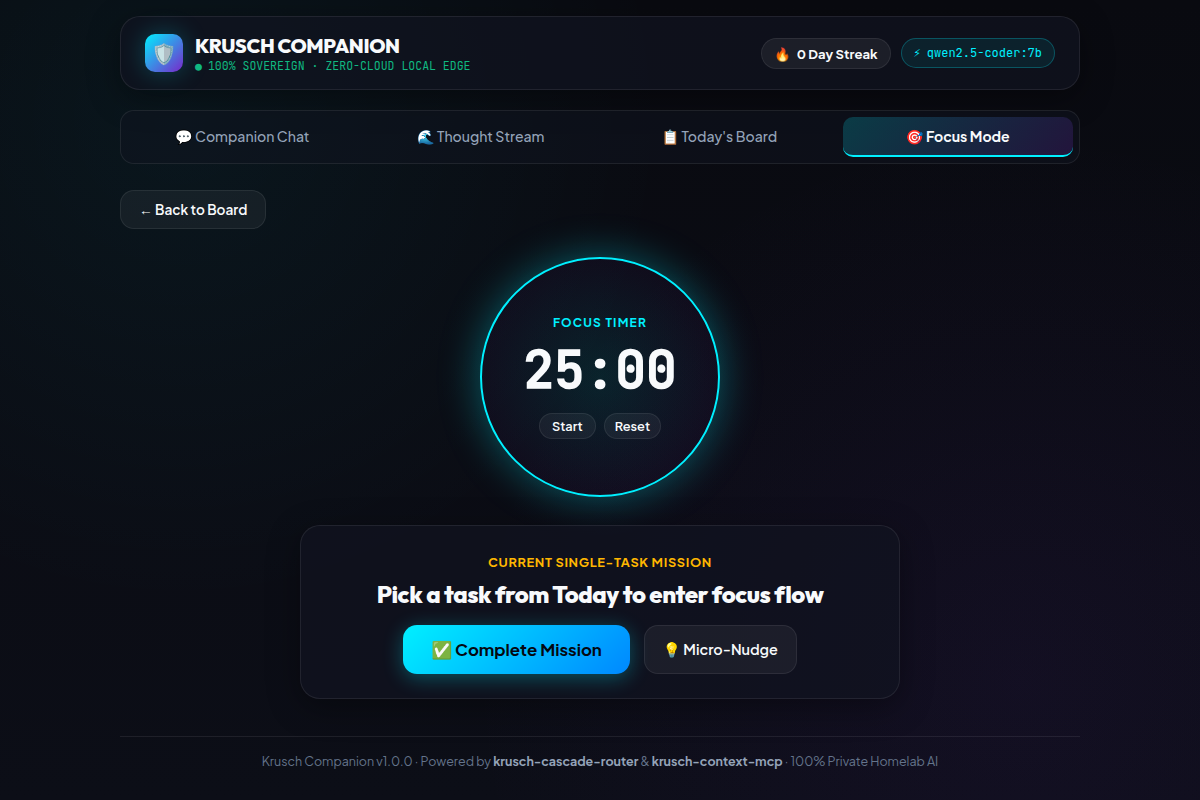
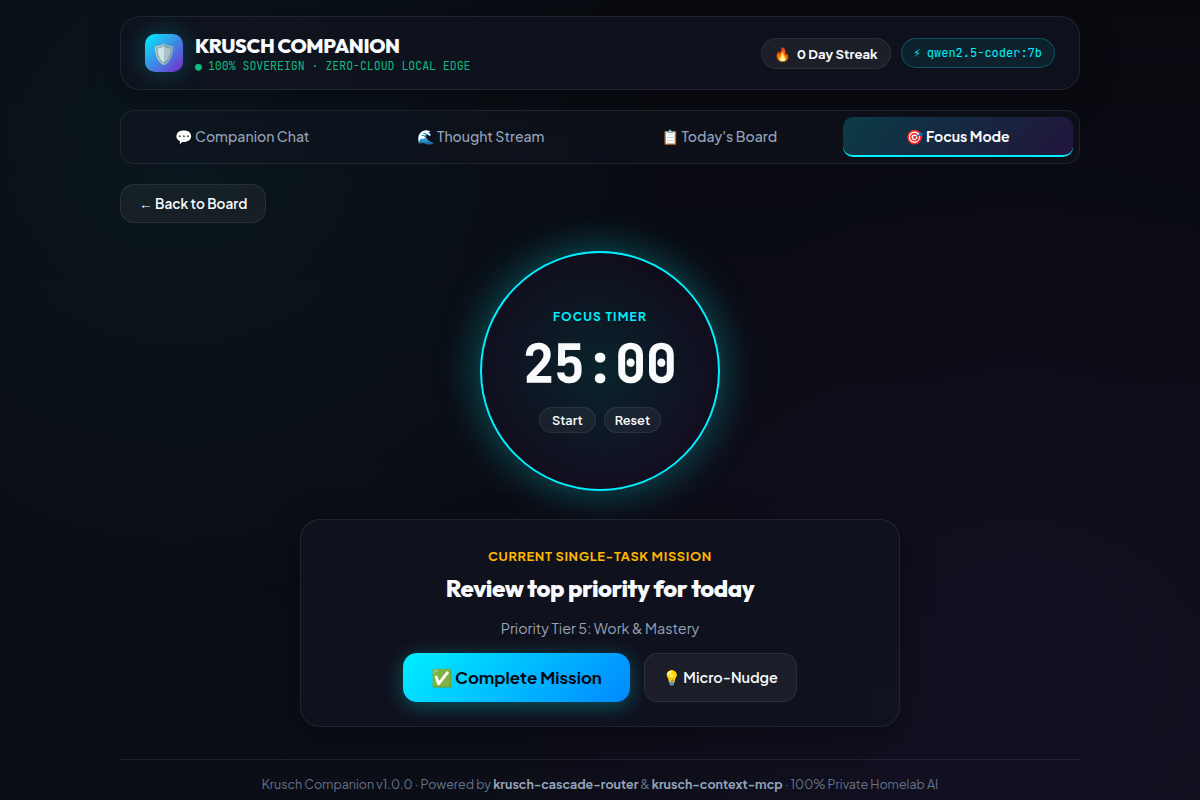
fix(ui): ensure Thought Stream branding is consistent across all views and update screenshots

diff --git a/scripts/capture_screenshots.js b/scripts/capture_screenshots.js
@@ -2,6 +2,7 @@ import { spawn } from 'child_process';
 import { execSync } from 'child_process';
 import { fileURLToPath } from 'url';
 import path from 'path';
+import fs from 'fs';
 
 const __filename = fileURLToPath(import.meta.url);
 const __dirname = path.dirname(__filename);
@@ -28,10 +29,12 @@ try {
   for (const v of views) {
     const outPath = path.join(projectRoot, v.file);
     const url = `http://localhost:3004/?tab=${v.tab}`;
+    const tmpProfile = path.join('/tmp', `chrome-profile-${Date.now()}`);
     console.log(`Capturing ${v.tab} -> ${v.file}...`);
-    execSync(`google-chrome --headless --disable-gpu --no-sandbox --hide-scrollbars --window-size=1200,800 --virtual-time-budget=2000 --screenshot="${outPath}" "${url}"`, {
+    execSync(`google-chrome --headless --disable-gpu --no-sandbox --hide-scrollbars --incognito --user-data-dir="${tmpProfile}" --window-size=1200,800 --virtual-time-budget=3000 --screenshot="${outPath}" "${url}"`, {
       stdio: 'inherit'
     });
+    try { fs.rmSync(tmpProfile, { recursive: true, force: true }); } catch {}
   }
   console.log('✅ All screenshots captured successfully.');
 } catch (err) {

diff --git a/client/src/components/AudioRecorder.jsx b/client/src/components/AudioRecorder.jsx
@@ -118,7 +118,7 @@ export function AudioRecorder({ onAudioReady, isProcessing }) {
         className={`btn-mic ${isRecording ? 'recording' : ''}`}
         onClick={isRecording ? stopRecording : startRecording}
         disabled={isProcessing}
-        title={isRecording ? 'Click to stop & analyze' : 'Click to start voice dump'}
+        title={isRecording ? 'Click to stop & analyze' : 'Click to speak your thoughts'}
       >
         {isRecording ? '⏹' : '🎙'}
       </button>
@@ -143,10 +143,10 @@ export function AudioRecorder({ onAudioReady, isProcessing }) {
 
       <p style={{ color: 'var(--text-muted)', fontSize: '0.88rem' }}>
         {isRecording
-          ? 'Listening... Talk freely. Unload everything on your mind.'
+          ? 'Listening... Talk freely. Speak whatever is on your mind.'
           : isProcessing
-          ? 'Processing with local Cascade Router...'
-          : 'Tap the mic to start an ADHD Chaos Dump'}
+          ? 'Processing with Cascade Router...'
+          : 'Tap the mic to speak your Thought Stream'}
       </p>
     </div>
   );

diff --git a/src/router/cascade-client.js b/src/router/cascade-client.js
@@ -219,7 +219,7 @@ export function classifyCompanionPrompt(prompt) {
 /**
  * Call local Ollama chat endpoint with hardened timeout and circuit breaking.
  */
-async function callOllama({ prompt, history = [], systemPrompt = '', model = null, timeoutMs = 12000 }) {
+async function callOllama({ prompt, history = [], systemPrompt = '', model = null, timeoutMs = 25000 }) {
   const ollamaUrl = config.cascade.ollamaUrl;
   const targetModel = model || config.cascade.edgeModel;
 
@@ -435,7 +435,7 @@ All personal data is private and sovereign. When referencing personal context, b
       history,
       systemPrompt: fullSystemPrompt,
       model: config.cascade.edgeModel,
-      timeoutMs: 12000
+      timeoutMs: 25000
     });
 
     return {
@@ -453,7 +453,7 @@ All personal data is private and sovereign. When referencing personal context, b
           history,
           systemPrompt: fullSystemPrompt,
           model: 'hermes3:latest',
-          timeoutMs: 12000
+          timeoutMs: 25000
         });
         return {
           content: fallbackContent,

diff --git a/client/src/App.jsx b/client/src/App.jsx
@@ -18,7 +18,11 @@ export function App() {
     return 'companion';
   });
   const [streak, setStreak] = useState(0);
-  const [focusTask, setFocusTask] = useState(null);
+  const [focusTask, setFocusTask] = useState({
+    id: 4,
+    title: 'Review top priority for today',
+    notes: 'Priority Tier 5: Work & Mastery'
+  });
   const [backendHealth, setBackendHealth] = useState(null);
   const [isOnline, setIsOnline] = useState(navigator.onLine);
 
